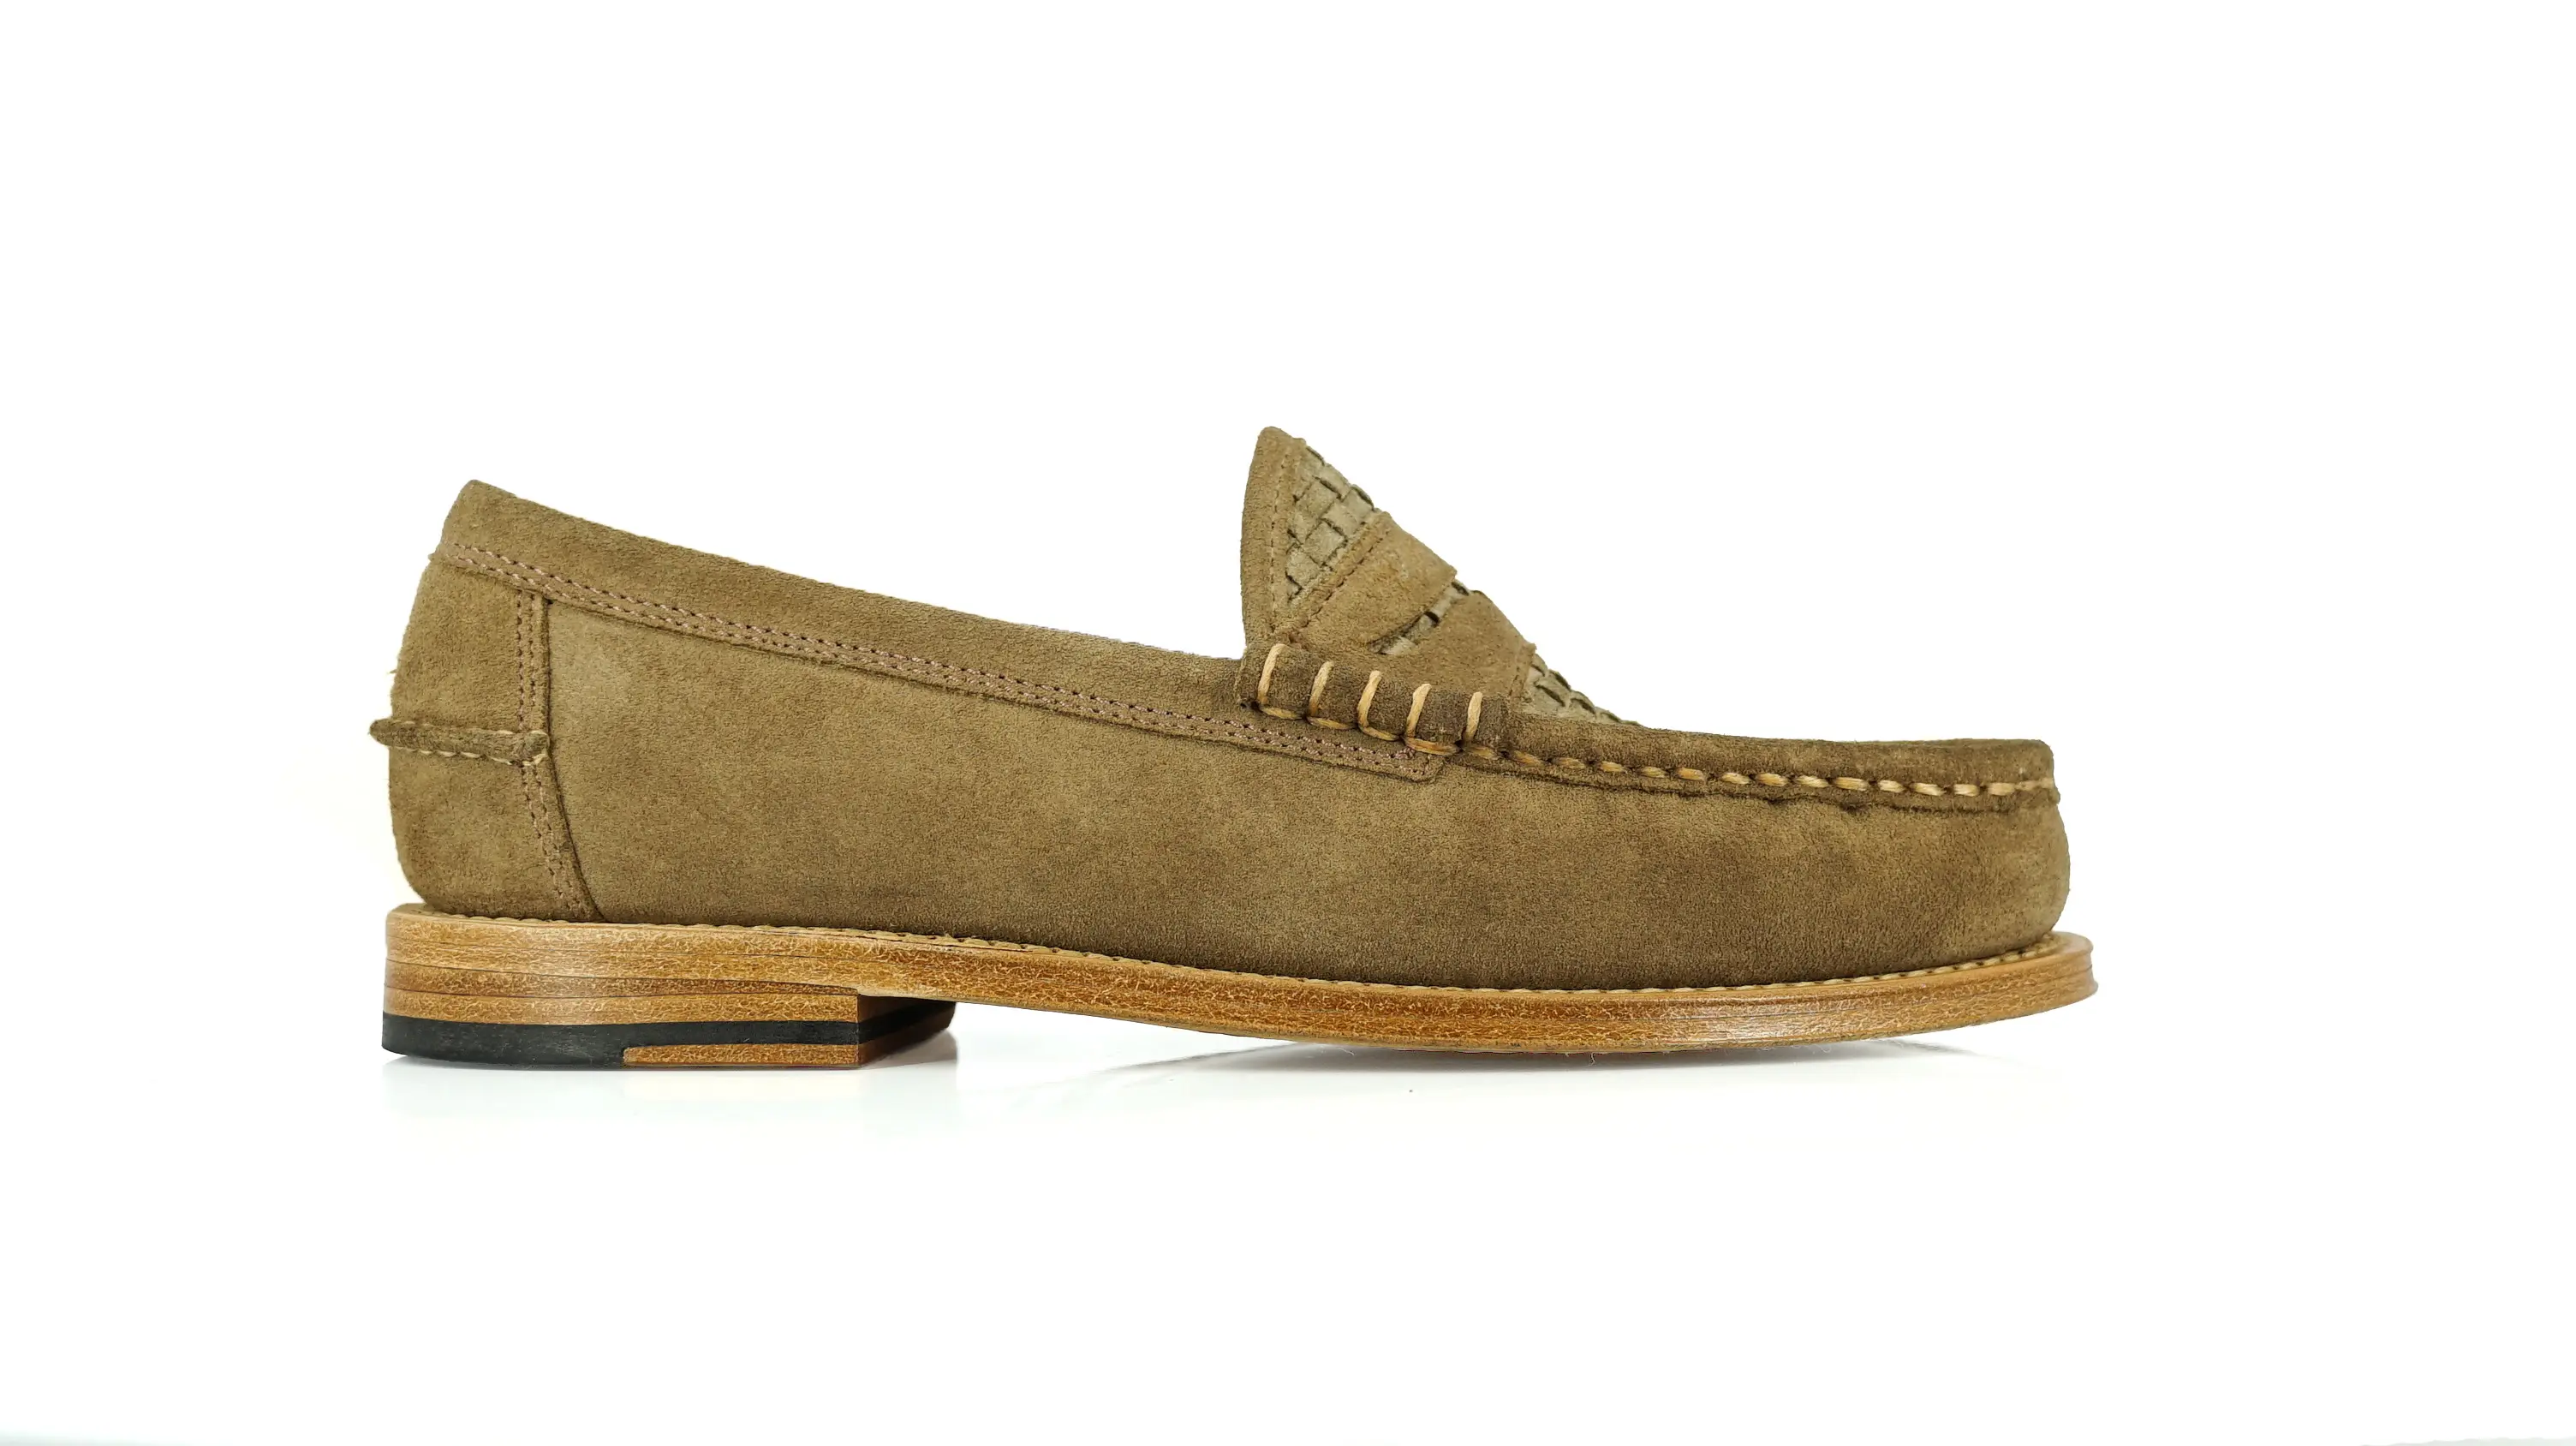
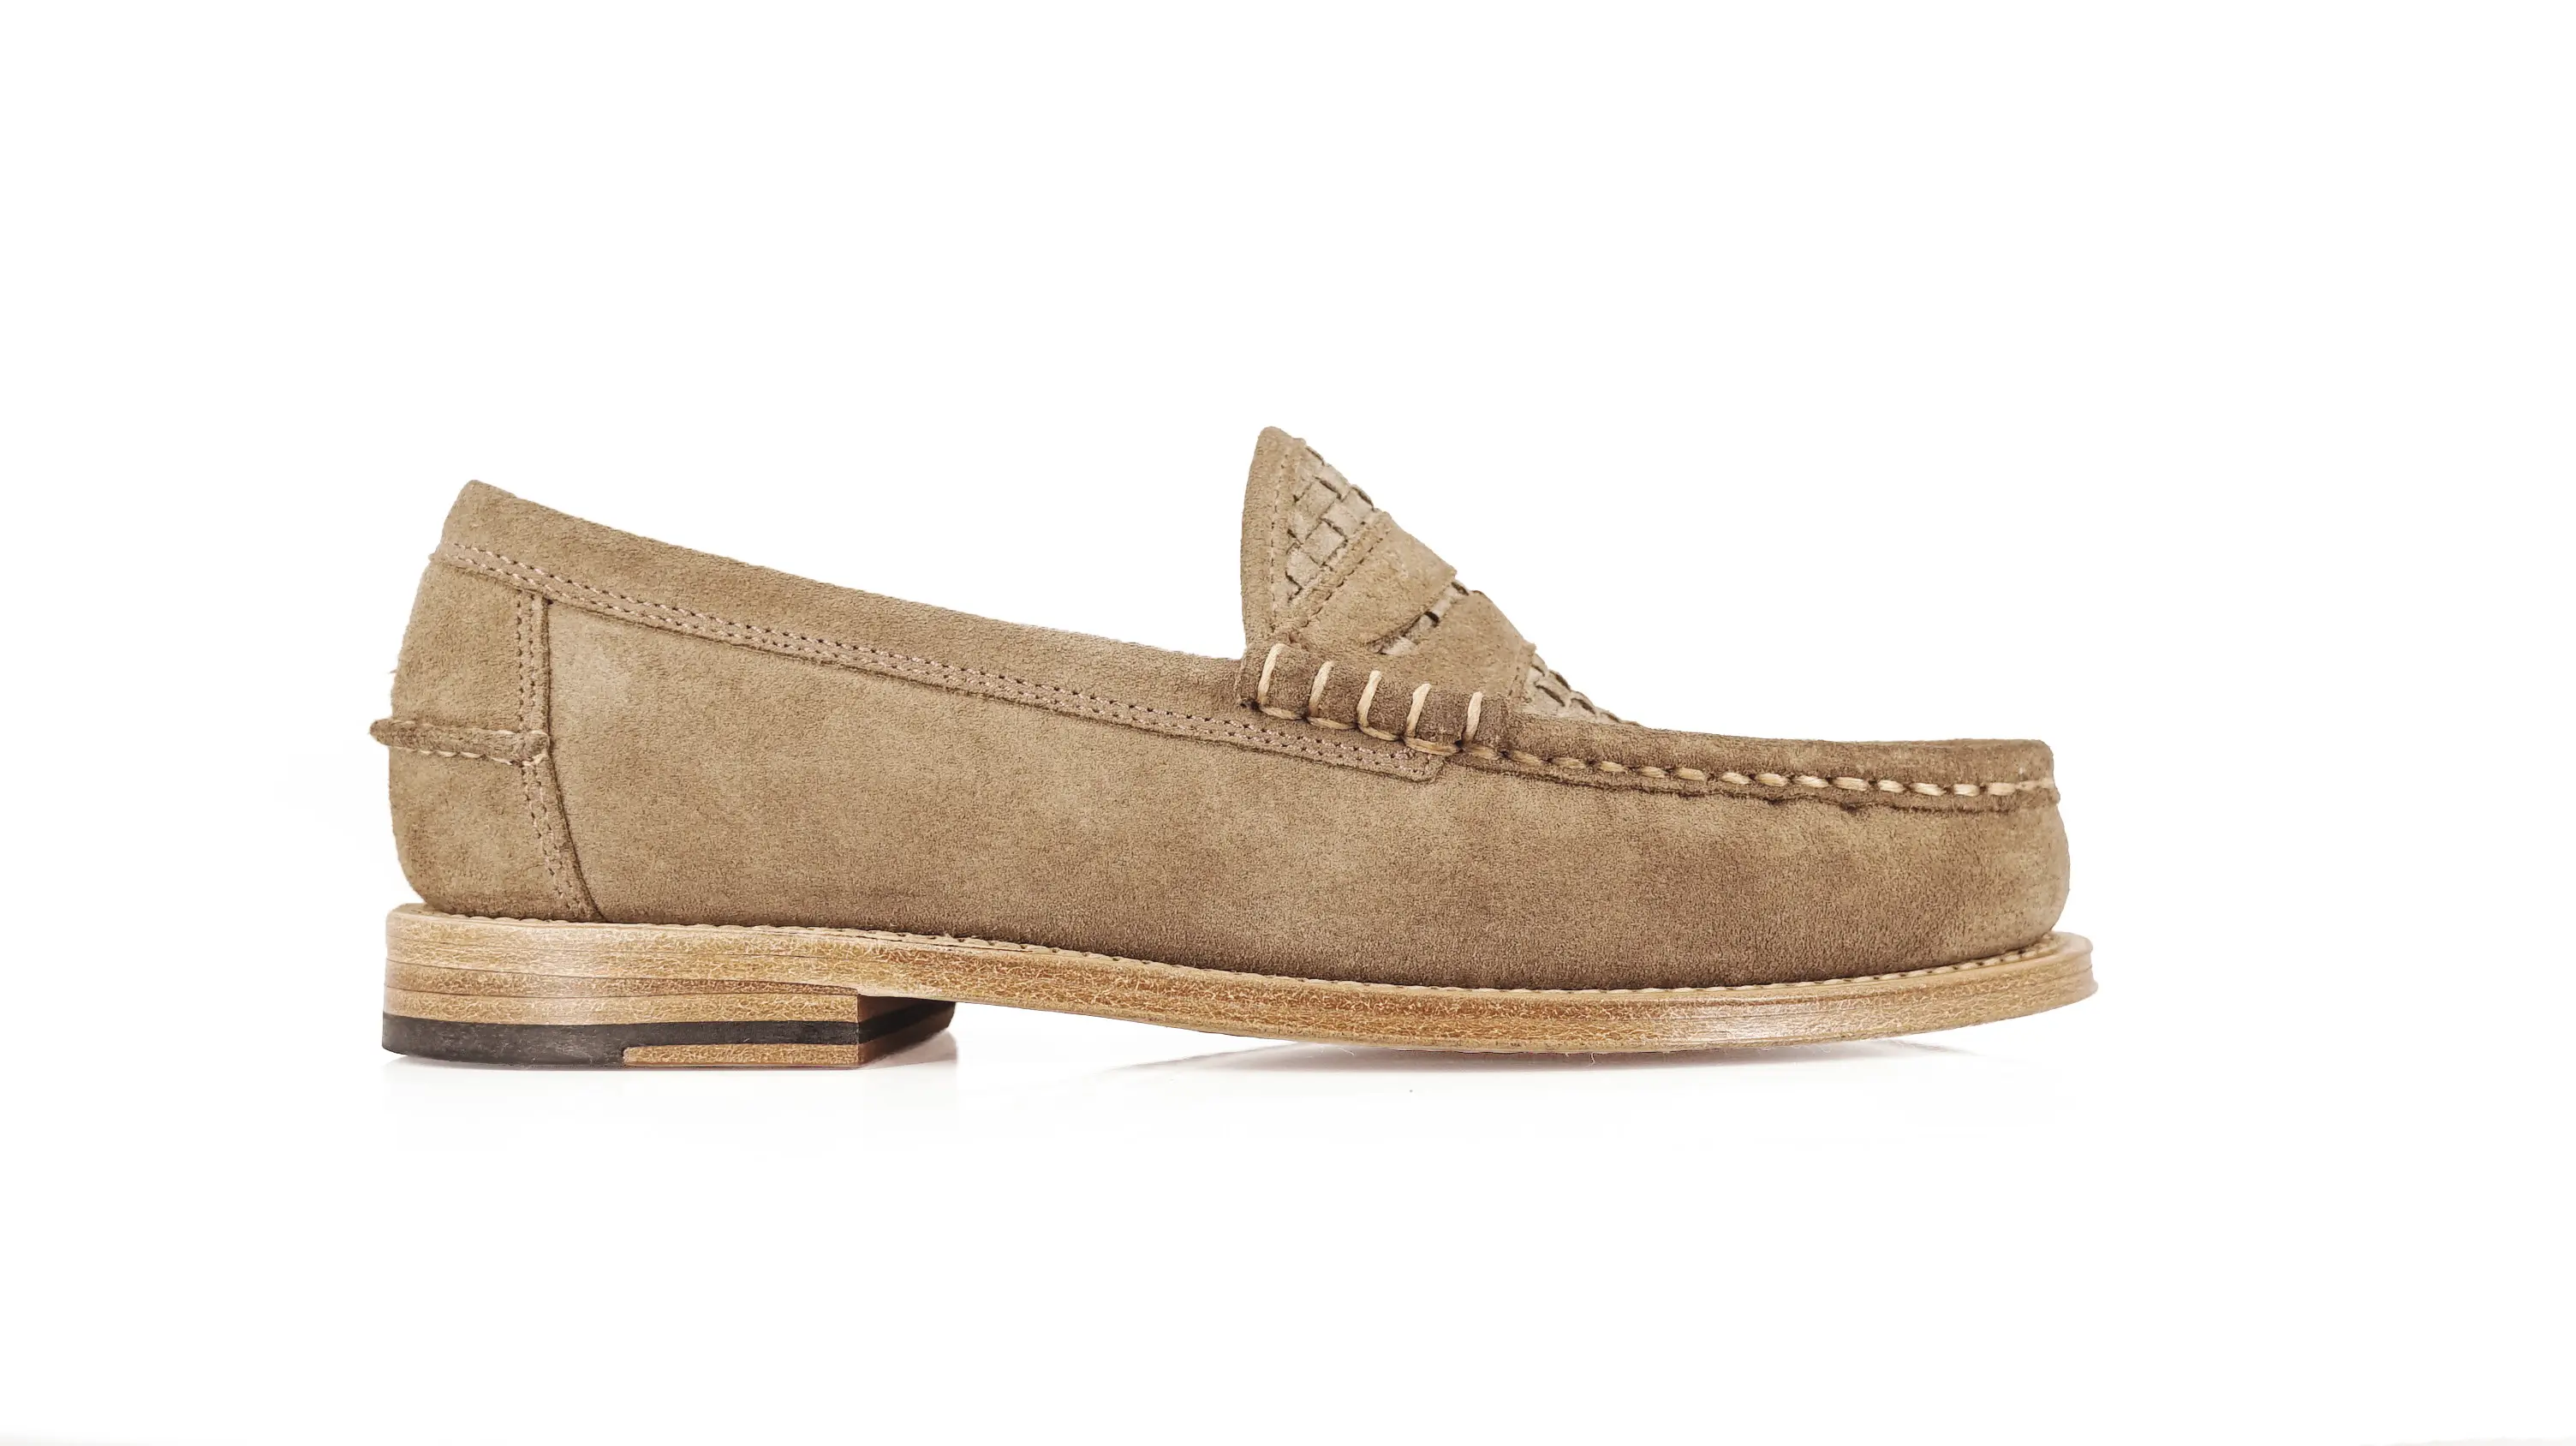
Nuevas fotos para algunos estilos

Changed region(s): [[0.125, 0.2773, 0.8125, 0.7393]]

diff --git a/src/app/3-components/po-form/po-form.components.ts b/src/app/3-components/po-form/po-form.components.ts
@@ -375,7 +375,7 @@ export class PoFormComponent implements OnInit {
           ]
         },
         {
-          styleName: 'Menorca Summer Penny Loafer',
+          styleName: 'Menorca Summer Loafer',
           price: 112.50,
           retailPrice: 225,
           description: '',
@@ -394,9 +394,17 @@ export class PoFormComponent implements OnInit {
           description: '',
           variants: [
             { id: 'new-ponza-stucco-velour', colorName: 'Stucco Velour', hexColor: '#BF9E4F', imageUrl: '/productos/new-ponza/new-ponza-stucco-velour.webp', sizes: this.generateSizes(), isSuede : true },
-            { id: 'new-ponza-espresso-leather', colorName: 'Espresso Leather', hexColor: '#301D11', imageUrl: '/productos/new-ponza/new-ponza-espresso.webp', sizes: this.generateSizes(), isSuede : true },
             { id: 'new-ponza-noir-leather', colorName: 'Noir Leather', hexColor: '#1A1A1A', imageUrl: '/productos/new-ponza/new-ponza-noir-leather.webp', sizes: this.generateSizes() },
             { id: 'new-ponza-ink-navy-suede', colorName: 'Ink Navy Suede', hexColor: '#323B48', imageUrl: '/productos/new-ponza/new-ponza-ink-navy-suede.webp', sizes: this.generateSizes(), isSuede : true},
+          ]
+        },
+        {
+          styleName: 'Ponza Loafer',
+          price: 162.50,
+          retailPrice: 325,
+          description: '',
+          variants: [
+            { id: 'new-ponza-espresso-leather', colorName: 'Espresso Leather', hexColor: '#301D11', imageUrl: '/productos/new-ponza/new-ponza-espresso.webp', sizes: this.generateSizes(), isSuede : true },
           ]
         },
         {
@@ -445,6 +453,8 @@ export class PoFormComponent implements OnInit {
           description: '',
           variants: [
             { id: 'new-ernest-fawn-suede', colorName: 'Fawn Suede', hexColor: '#ECE9D6', imageUrl: '/productos/new-ernest/new-ernest-fawn-suede.webp', sizes: this.generateSizes(), isSuede : true },
+            { id: 'new-ernest-calf-gold', colorName: 'Autumn Calf Gold', hexColor: '#B2702B', imageUrl: '/productos/new-ernest/new-ernest-calf-gold.webp', sizes: this.generateSizes(), isSuede : true },
+            { id: 'new-ernest-waxy-hickori', colorName: 'Waxy Hickori', hexColor: '#4D3B37', imageUrl: '/productos/new-ernest/new-ernest-waxy-hickori.webp', sizes: this.generateSizes(), isSuede : true },
           ]
         },
         {